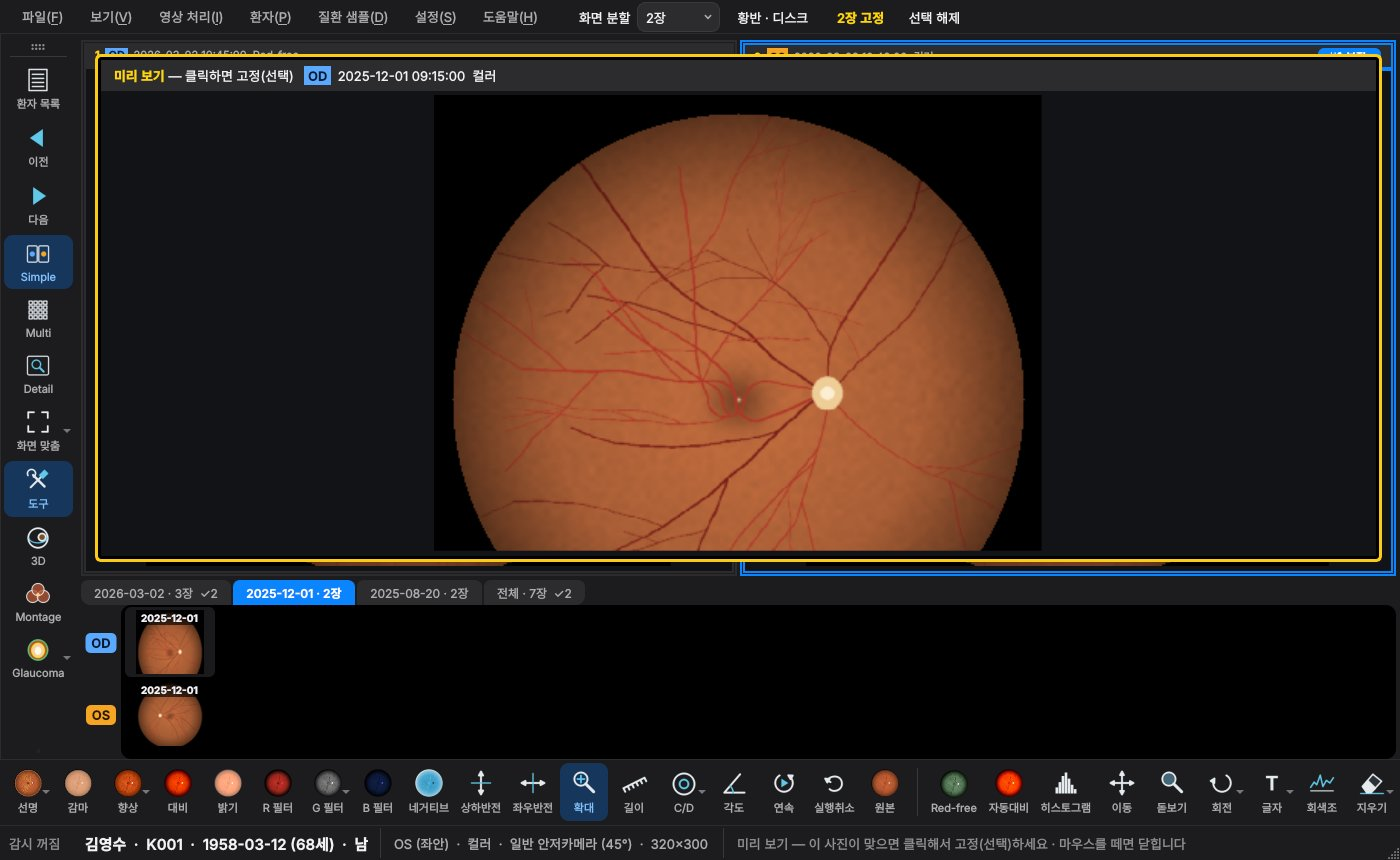
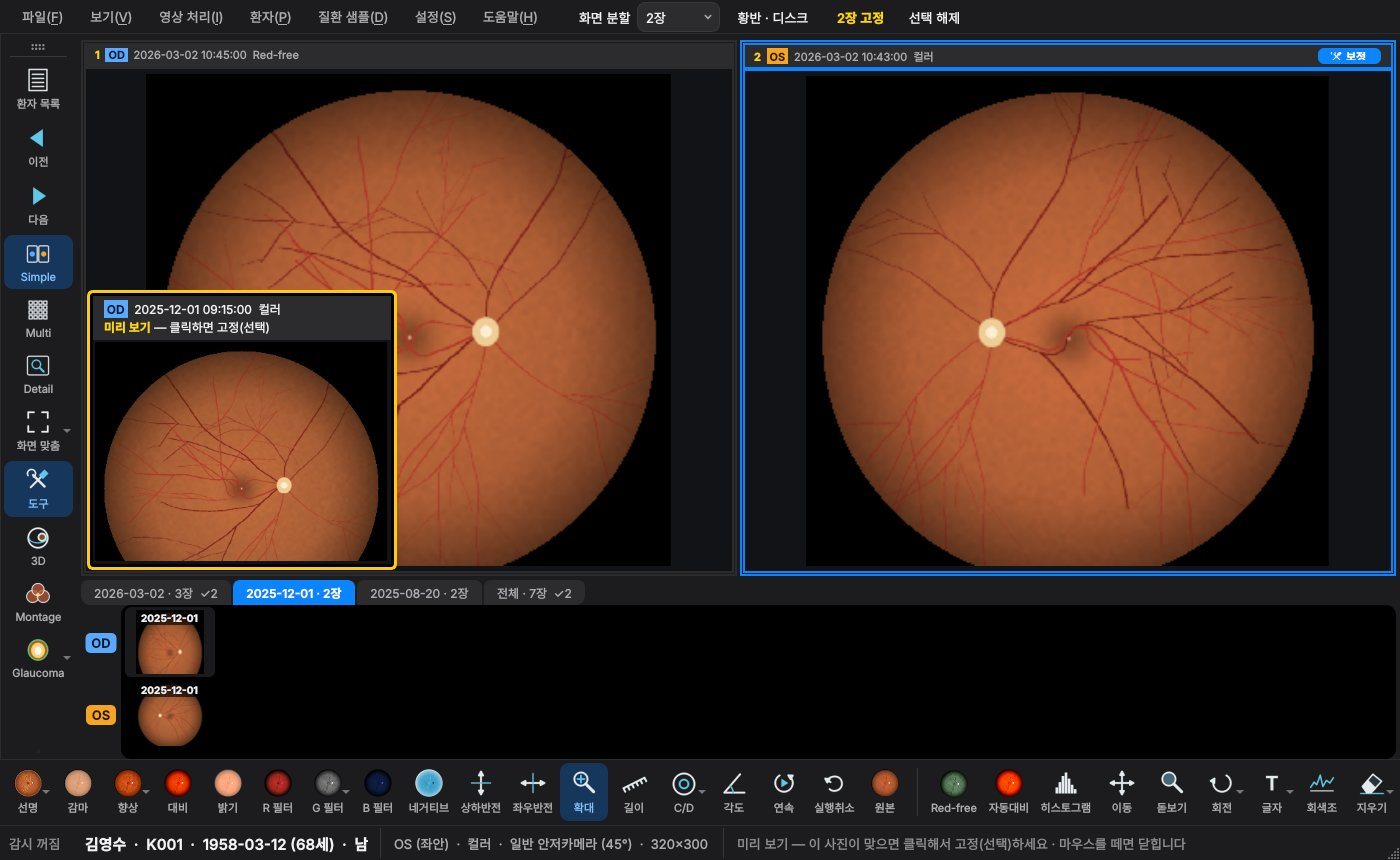
안저 뷰어 0.10.2: 미리 보기는 사진 바로 위에 작은 창으로 · 확대 전에는 왼쪽 버튼이 돋보기 (#88)
- 사진 목록의 사진에 마우스를 올리면 그 사진 바로 위에 작은 창(목록 사진의 다섯 배쯤)으로 — 메인 화면을 덮지 않음
- Simple · Multi 칸과 Detail의 큰 사진: 확대 전(사진 전체)에는 왼쪽 버튼을 누르는 동안 돋보기, 확대 뒤에는 이동

Claude-Session: https://claude.ai/code/session_01SGHFuffDfiwdMwsKrVFkMF

diff --git a/tests/test_bookmarks.py b/tests/test_bookmarks.py
@@ -3,8 +3,8 @@
 The photo list under the photos shows one exam's photos (OD row · OS row, as before); the bookmarks
 over it — one per exam date, newest at the left, then 전체 — pick the exam, and so does the wheel
 over the list. A patient opens on its newest exam, the newest OD | OS above. A photo of the list
-under the mouse is shown large over the views (미리 보기, v0.10.1: a pane of its own — the photos
-under it stay) until the mouse leaves it; a click pins it (numbered) — several pinned: that many
+under the mouse is shown larger in a small pane just above it (미리 보기, v0.10.2 — the photos of
+the views stay) until the mouse leaves it; a click pins it (numbered) — several pinned: that many
 side by side — and a click on a pinned one lets it go."""
 import os
 
@@ -173,8 +173,15 @@ def test_a_photo_under_the_mouse_is_previewed_and_a_click_pins_it(win):
     _hover(app, w, rf3)
     assert w._peek == rf3 and pane.isVisible() and pane.image_id == rf3 and pane.view.has_image()
     assert "미리 보기" in pane.label.text() and "클릭하면 고정" in pane.label.text() and "OD" in pane.label.text()
-    assert pane.parentWidget() is w.tabs and pane.width() > w.tabs.width() * 0.9      # nearly the whole room
-    assert pane.height() > w.tabs.height() * 0.9
+    # … a small pane just above that photo of the list: a good deal larger than it there, but only a
+    # corner of the views (not the main photos' whole room)
+    from fundusview.ui.main_window import THUMB_GRID
+
+    assert pane.parentWidget() is w.tabs and 3 * THUMB_GRID[0] < pane.width() <= 460
+    assert pane.width() < w.tabs.width() * 0.45 and pane.height() <= w.tabs.height() * 0.62
+    assert abs(pane.geometry().bottom() - w.tabs.height()) < 12            # at the bottom, by the list
+    thumb_x = w.thumbs.viewport().mapTo(w.tabs.parentWidget(), w.thumbs.visualItemRect(_item(w, rf3)).center()).x()
+    assert pane.geometry().left() >= 0 and pane.geometry().left() <= thumb_x - w.tabs.x() <= pane.geometry().right()
     assert _cells(w) == ([od3, os3], od3) and w.multi.count == 2
     assert w.picks() == [od3, os3] and not w._own_picks() and w.current["id"] == od3
     assert _item(w, rf3).data(PICK_ROLE) == 0 and _item(w, od3).data(PICK_ROLE) == SHOWN
@@ -212,7 +219,7 @@ def test_a_photo_under_the_mouse_is_previewed_and_a_click_pins_it(win):
     _hover(app, w, os2)
     w.resize(1300, 800)
     app.processEvents()
-    assert pane.isVisible() and pane.geometry().right() <= w.tabs.width() and pane.width() > w.tabs.width() * 0.9
+    assert pane.isVisible() and pane.geometry().right() <= w.tabs.width() and pane.geometry().bottom() <= w.tabs.height()
     _press(w, "view:multi")
     assert not pane.isVisible() and w._peek is None
     _press(w, "view:simple")
@@ -264,3 +271,33 @@ def test_settings_of_before_open_on_simple_once(tmp_path):
         finally:
             w.close()
     db.close()
+
+
+def test_the_left_button_on_a_photo_not_zoomed_yet_shows_the_loupe(win):
+    """Simple · Multi cells and Detail's big photo: with the whole photo on screen (before any zoom) the
+    left button held down shows the loupe under the mouse; once zoomed, a drag moves the photo as before."""
+    from PySide6.QtCore import QPoint, Qt
+    from PySide6.QtTest import QTest
+
+    app, w, db, refs, ids = win
+    _open(app, w, refs["kim"])
+    cell = next(c for c in w.multi.cells if c.image_id == ids["os3"])
+    view, vp = cell.view, cell.view.viewport()
+    at = QPoint(vp.width() // 2, vp.height() // 2)
+    assert view.click_loupe and view._fit and not view._loupe.isVisible()
+    QTest.mousePress(vp, Qt.MouseButton.LeftButton, pos=at)
+    assert view._loupe.isVisible() and w.current["id"] == ids["os3"]       # (the click selects the cell, too)
+    assert abs(view._loupe.geometry().center().x() - at.x()) <= 1
+    QTest.mouseMove(vp, at + QPoint(40, 10))                               # it follows the mouse
+    assert abs(view._loupe.geometry().center().x() - at.x() - 40) <= 1
+    QTest.mouseRelease(vp, Qt.MouseButton.LeftButton, pos=at + QPoint(40, 10))
+    assert not view._loupe.isVisible() and view._fit
+    # zoomed in: the left button moves the photo, no loupe
+    view.zoom_to(view._fit_zoom() * 3)
+    assert not view._fit
+    QTest.mousePress(vp, Qt.MouseButton.LeftButton, pos=at)
+    assert not view._loupe.isVisible() and view._drag["kind"] == "pan"
+    QTest.mouseRelease(vp, Qt.MouseButton.LeftButton, pos=at)
+    view.fit()
+    # Detail's big photo the same; other views (the 황반 · 디스크 panes …) as before
+    assert w.view2d.click_loupe and not cell.zooms["disc"].click_loupe

diff --git a/fundusview/ui/main_window.py b/fundusview/ui/main_window.py
@@ -5,8 +5,8 @@ Simple, its newest OD | OS (the first setting, v0.10.0), or on 16장 보기, its
 
 The photo list under the photos shows one exam's photos: the 날짜 책갈피 over it (one per exam
 date, the newest at the left and open first, then 전체) pick the exam, and so does the wheel over
-the list (``set_book``). A photo of the list under the mouse is shown large over the views (미리
-보기, peek.py — the photos under it stay as they are) and on Simple a click selects it, numbered —
+the list (``set_book``). A photo of the list under the mouse is shown larger just above it (미리
+보기, peek.py — a small pane; the photos of the views stay as they are) and on Simple a click selects it, numbered —
 as many photos above as are selected; with none the newest OD | OS of the bookmark's exam. The patient list
 is the only one: the command toolbar's [환자 목록], the menu bar's 환자 목록 (Ctrl+0) and 환자 검색
 (Ctrl+F) bring that window up; the patient is the same in both windows.
@@ -501,7 +501,7 @@ class MainWindow(QMainWindow):
         self.act_peek = m.addAction("사진 목록에 마우스를 올리면 미리 보기")
         self.act_peek.setCheckable(True)
         self.act_peek.setChecked(bool(self.settings.hover_preview))
-        self.act_peek.setToolTip("아래 사진 목록의 사진에 마우스를 올리면 그 사진만 화면 위에 크게 띄워 보여 줍니다 "
+        self.act_peek.setToolTip("아래 사진 목록의 사진에 마우스를 올리면 그 사진 바로 위에 좀 더 크게 보여 줍니다 "
                                  "(클릭하면 고정)")
         self.act_peek.toggled.connect(self._set_hover_preview)
         m.addAction(self.tb_cmd.toggleViewAction())
@@ -700,6 +700,7 @@ class MainWindow(QMainWindow):
         self.tabs.tabBar().hide()                # the views are switched with the icons above the photos
         self.view2d = ImageView()
         self.view2d.crossfade = True            # the next photo fades in over the last
+        self.view2d.click_loupe = True          # not zoomed yet: the left button held shows the loupe
         self.view2d.dblclick_leaves = True      # Detail: a double click goes back where one was (the
         self.view2d.activated.connect(self._leave_detail)   # loupe: the 돋보기 tool)
         self.view2d.toggle_captions(True)
@@ -2511,8 +2512,8 @@ class MainWindow(QMainWindow):
     PEEK_TABS = ("multi", "all")               # 미리 보기 on Simple · Multi and Detail (the views with the list)
 
     def _apply_peek(self) -> None:
-        """The photo the mouse rests on, large over the views (``PeekPane``) — the photos under it
-        stay as they are. Any photo of the list: one selected already is looked at the same way."""
+        """The photo the mouse rests on, larger, in a small pane just above it (``PeekPane``) — the
+        photos of the views stay as they are. Any photo of the list: one selected already is looked at the same way."""
         want = self._peek_want
         if self._tab() not in self.PEEK_TABS or not self.settings.hover_preview:
             want = None
@@ -2529,8 +2530,13 @@ class MainWindow(QMainWindow):
             what = "클릭하면 이 사진을 봅니다"
         else:
             what = "고정한 사진 — 클릭하면 빼기" if own else "클릭하면 고정(선택)"
-        self.peek_pane.show_photo(want, f"<b style='color:#ffd60a'>미리 보기</b> — {what}&nbsp;&nbsp; "
-                                        f"{self._multi_label(row, self._picks.index(want) + 1 if own else 0)}", rgb)
+        # … just above that photo of the list
+        item = next((self.thumbs.item(i) for i in range(self.thumbs.count())
+                     if self.thumbs.item(i).data(Qt.ItemDataRole.UserRole) == want), None)
+        x = (self.thumbs.viewport().mapTo(self.centralWidget(), self.thumbs.visualItemRect(item).center()).x()
+             - self.tabs.mapTo(self.centralWidget(), QPoint(0, 0)).x()) if item is not None else 0
+        self.peek_pane.show_photo(want, f"{self._multi_label(row, self._picks.index(want) + 1 if own else 0)}"
+                                        f"<br><b style='color:#ffd60a'>미리 보기</b> — {what}", rgb, x)
         self.lbl_status.setText("미리 보기 — 이 사진이 맞으면 클릭해서 고정(선택)하세요 · 마우스를 떼면 닫힙니다")
 
     def _end_peek(self) -> None:

diff --git a/fundusview/ui/peek.py b/fundusview/ui/peek.py
@@ -1,10 +1,10 @@
-"""미리 보기 — the photo of the photo list under the mouse, large over the photos.
+"""미리 보기 — the photo of the photo list under the mouse, a good deal larger, right over it.
 
-A pane that floats over the views while the mouse rests on a photo of the list: the photo as
-large as the room allows, its eye · date · kind in the line above it, and what a click does
-(선택 / 빼기). The photos underneath stay as they are — nothing is laid out again — and the pane
-lets the mouse through (it is only looked at). The main window shows and hides it
-(``MainWindow._apply_peek``).
+A small pane that comes up just above the photo of the list the mouse rests on (like a large
+tool tip): the photo some five times the size it has in the list (``SIDE``), its eye · date ·
+kind in the line above it, and what a click does (고정 / 빼기). It covers only a corner of the
+views — the photos there stay as they are, nothing is laid out again — and lets the mouse
+through (it is only looked at). The main window shows and hides it (``MainWindow._apply_peek``).
 """
 from __future__ import annotations
 
@@ -14,7 +14,8 @@ from PySide6.QtWidgets import QFrame, QLabel, QVBoxLayout, QWidget
 from . import theme
 from .image_view import ImageView
 
-MARGIN = 14                     # around the pane: the views under it show at its edges
+MARGIN = 6                      # between the pane and the edges of the views / the photo list
+SIDE = 440                      # the photo in the pane: this many pixels across (the list: 84)
 PEEK_COLOR = "#facc15"          # its frame (the colour of a picked photo in the list)
 
 
@@ -29,7 +30,7 @@ class PeekPane(QFrame):
         lay.setContentsMargins(3, 3, 3, 3)
         lay.setSpacing(0)
         self.label = QLabel()
-        self.label.setStyleSheet(f"background:{theme.CARD}; color:{theme.TEXT}; padding:6px 10px; font-size:13px")
+        self.label.setStyleSheet(f"background:{theme.CARD}; color:{theme.TEXT}; padding:4px 8px; font-size:12px")
         self.view = ImageView()
         self.view.set_navigator(False)
         self.view.setHorizontalScrollBarPolicy(Qt.ScrollBarPolicy.ScrollBarAlwaysOff)
@@ -38,16 +39,27 @@ class PeekPane(QFrame):
         lay.addWidget(self.label)
         lay.addWidget(self.view, 1)
         self.image_id: int | None = None
+        self.anchor_x = 0                       # the middle of the photo of the list, in the parent
+        self.aspect = 0.75                      # height / width of the photo shown
         self.hide()
 
     def place(self) -> None:
-        """Over the whole parent, a margin left around it."""
+        """At the bottom of the parent (just above the photo list), centred over ``anchor_x`` — the
+        photo of the list it shows — and kept inside the parent; at most half the parent's height."""
         r = self.parentWidget().rect()
-        self.setGeometry(QRect(r).adjusted(MARGIN, MARGIN, -MARGIN, -MARGIN))
+        head = self.label.sizeHint().height()
+        w = min(SIDE, r.width() - 2 * MARGIN)
+        h = min(int(w * self.aspect), max(120, r.height() // 2 - head))
+        w = min(w, int(h / self.aspect)) if self.aspect > 0 else w
+        w, h = max(w, 200) + 12, h + head + 12          # (the frame and its padding)
+        x = max(MARGIN, min(self.anchor_x - w // 2, r.width() - w - MARGIN))
+        self.setGeometry(QRect(x, r.height() - h - MARGIN, w, h))
 
-    def show_photo(self, image_id: int, label: str, rgb) -> None:
+    def show_photo(self, image_id: int, label: str, rgb, anchor_x: int = 0) -> None:
         self.image_id = image_id
         self.label.setText(label)
+        self.anchor_x = int(anchor_x)
+        self.aspect = rgb.shape[0] / max(1, rgb.shape[1])
         self.place()
         self.show()
         self.raise_()

diff --git a/fundusview/ui/image_view.py b/fundusview/ui/image_view.py
@@ -222,6 +222,7 @@ class ImageView(QGraphicsView):
         self._loupe.hide()
         self.loupe_mag, self.loupe_size = 3.0, 260
         self.dblclick_loupe = False      # 확대/축소 · 이동: a double click turns a loupe on that follows the mouse
+        self.click_loupe = False         # … the left button held on the whole photo (not zoomed): the loupe
         self.dblclick_leaves = False     # 확대/축소 · 이동: a double click is only reported (Detail: back where one was)
         self.step_keys = False           # ← / → ask for the photo before / after (``stepped``) instead of scrolling
         self._loupe_on = False
@@ -821,7 +822,12 @@ class ImageView(QGraphicsView):
         self.clicked.emit()
         sp = self.mapToScene(pos)
         t = self.tool
-        if t in ("pan", "zoom"):                      # 확대/축소 · 이동: a drag moves the photo (the wheel zooms)
+        if t in ("pan", "zoom") and self.click_loupe and self._fit:
+            # the whole photo on screen (not zoomed yet — nothing to move): held down, the loupe,
+            # following the mouse; the wheel meanwhile changes its power
+            self._drag = {"kind": "loupe"}
+            self._show_loupe(pos)
+        elif t in ("pan", "zoom"):                    # 확대/축소 · 이동: a drag moves the photo (the wheel zooms)
             self._drag = {"kind": "pan", "last": pos}
             self.viewport().setCursor(Qt.CursorShape.ClosedHandCursor)
         elif t == "loupe":

diff --git a/fundusview/ui/multi_view.py b/fundusview/ui/multi_view.py
@@ -48,6 +48,7 @@ class _Cell(QFrame):
         hl.addStretch(1)
         hl.addWidget(self.badge, 0, Qt.AlignmentFlag.AlignVCenter)
         self.view = ImageView()
+        self.view.click_loupe = True        # not zoomed yet: the left button held shows the loupe
         self.nav = EdgeNav(self.view)       # ◀ ▶ at its sides (Simple; nowhere to go until told)
         lay.addWidget(self.label)
         lay.addWidget(self.view, 3)

diff --git a/fundusview/__init__.py b/fundusview/__init__.py
@@ -5,6 +5,6 @@ Runs on Windows 10/11 and macOS 14+ (PySide6; the Mac app as built needs what it
 see ``macos_bundle.py``). See ``README.md``.
 """
 
-__version__ = "0.10.1"
+__version__ = "0.10.2"
 APP_NAME = "FundusViewer"
 APP_TITLE = "안저 사진 뷰어 (Fundus Viewer)"

diff --git a/README.md b/README.md
@@ -350,7 +350,7 @@ Windows에서는 창 제목 표시줄도 어둡게 맞춥니다.
 
 | 단추 | 보이는 것 | 사진 목록을 클릭하면 |
 |---|---|---|
-| (환자를 열면) **Simple** (Ctrl+1) | **최신 OD \| OS 두 장**을 크게 나란히 (OD 왼쪽 · OS 오른쪽) — 사진을 고정하면 고정한 사진들 | **고정**(번호) · 다시 클릭하면 **빼기** — 마우스만 올리면 크게 **미리 보기** |
+| (환자를 열면) **Simple** (Ctrl+1) | **최신 OD \| OS 두 장**을 크게 나란히 (OD 왼쪽 · OS 오른쪽) — 사진을 고정하면 고정한 사진들 | **고정**(번호) · 다시 클릭하면 **빼기** — 마우스만 올리면 그 위에 좀 더 크게 **미리 보기** |
 | **Multi** (Ctrl+2) | **16장 보기** — 이 환자의 사진 16장을 한 화면에 ([아래](#16장-보기--multi-vk-2-방식)); 고른 사진이 있으면 **고른 사진만**, 다시 누르면 16장 보기로 | **더하기**(번호) · 다시 클릭하면 **빼기** |
 | **Detail** (Ctrl+5) | 사진 한 장을 크게 + 황반 · 시신경 유두 확대 ([위](#detail-크게-보기)) | 그 사진을 봄 |
 | **3D** (Ctrl+3) | 보고 있는 사진을 [3D 안구](#3d-안구-모델)로 — 한 번 더 누르면 보던 화면으로 | 그 사진을 3D로 |
@@ -366,8 +366,8 @@ Simple이 함께 씁니다(16장 보기에서 번호가 붙은 사진 = Multi에
   방향), OD 칸이 선택됨, 사진 목록에는 노란 테두리(번호 없음 — 보여 주는 것일 뿐 고정한 것이 아님). 컬러 사진을 먼저 고르고,
   눈 · 촬영 종류 고르기는 그대로 따릅니다. 한쪽 눈 사진만 있으면 그 한 장이 크게 나옵니다. 책갈피를 넘기거나 환자 목록에서
   다른 검사를 고르면(고정한 사진이 없으면) 그 검사의 OD | OS로 바뀝니다.
-* 사진 목록의 사진에 **마우스를 올리면** 그 사진만 화면 위에 **크게 떠서 미리 보입니다**(노란 테두리, 제목에 "미리 보기") —
-  위의 사진 칸은 그대로 있고(0.10.1부터), 마우스를 떼면 닫힙니다. 이미 고정한 사진도 같은 식으로 크게 확인할 수 있고,
+* 사진 목록의 사진에 **마우스를 올리면** 그 사진 **바로 위에 작은 창으로 좀 더 크게** 미리 보입니다(목록 사진의 다섯 배쯤,
+  노란 테두리, "미리 보기") — 위의 메인 화면은 한쪽 구석만 가려지고 사진 칸은 그대로이며(0.10.2부터), 마우스를 떼면 닫힙니다. 이미 고정한 사진도 같은 식으로 크게 확인할 수 있고,
   Detail에서도 됩니다. (보기 → 사진 목록에 마우스를 올리면 미리 보기로 끌 수 있습니다.)
 * 맞는 사진이면 **클릭** — 노란 테두리와 번호(1, 2 …)가 붙고 그 사진이 위에 **고정됩니다**. 화면은 고정한
   장수에 맞게 저절로 나뉩니다 — 1장 · 2장(나란히) · 3~4장 4칸 · 5~6장 6칸 · 7~9장 9칸 · 16칸(최대 16장).
@@ -386,7 +386,8 @@ Simple이 함께 씁니다(16장 보기에서 번호가 붙은 사진 = Multi에
   **파란 [보정] 아이콘**이 붙습니다(사진이 2장 이상일 때). 다른 칸은 그대로이고,
   사진마다 실행 취소(Ctrl+Z) · 원본이 따로 있습니다.
   보정한 사진을 Detail로 열어도 같은 보정이 보입니다.
-* 칸마다 휠로 따로 확대·축소하고 드래그로 옮길 수 있습니다. Simple에 두 장일 때 **[3D]** 를 누르면 두 사진이 함께 3D로 나오고,
+* 칸마다 휠로 따로 확대·축소하고 드래그로 옮길 수 있습니다. **확대하기 전**(사진 전체가 보일 때)에는 **왼쪽 버튼을 누르고
+  있는 동안 그 자리에 돋보기**가 나옵니다(누른 채 휠: 돋보기 배율 · 0.10.2부터, Detail의 큰 사진도 같음). Simple에 두 장일 때 **[3D]** 를 누르면 두 사진이 함께 3D로 나오고,
   Multi에서 두 장 이상 · Simple에 세 장 이상이면 한 장 / 모두를 묻습니다([여러 장 3D](#두-장-3d--여러-장-3d)).
   **[Montage]** 는 고른 사진(같은 눈 2장 이상)으로 만듭니다.
 * 새 사진이 들어오면(새 영상 자동 표시) Simple은 최신 OD | OS가 다시 나옵니다 — 사진을 손으로 바꾸지 않았을 때. 바꿨으면
@@ -416,7 +417,7 @@ Simple이 함께 씁니다(16장 보기에서 번호가 붙은 사진 = Multi에
 * 고정한 사진은 노란 테두리와 번호, Simple의 처음 두 장(최신 OD | OS)은 노란 테두리만, 두 번째 사진은 ② 입니다. 지금 보고 있는 사진에 따로
   파란 표시는 하지 않습니다(0.9.1부터 — 고른 표시와 헷갈려서).
 
-| 날짜 책갈피 · 2장 고정 — 목록의 사진에 마우스를 올려 크게 미리 보기 |
+| 날짜 책갈피 · 2장 고정 — 목록의 사진에 마우스를 올리면 그 위에 좀 더 크게 미리 보기 |
 |---|
 | ![날짜 책갈피](docs/bookmarks.jpg) |
 

diff --git a/docs/release_notes.md b/docs/release_notes.md
@@ -29,6 +29,16 @@ Mac용은 **Apple Silicon**(M1 · M2 · M3 · M4 …)용만 있습니다 — Int
 4. Mac에서는 Ctrl 대신 ⌘ 키를 씁니다(⌘+클릭 = 두 번째 사진, ⌘1 · ⌘2 · ⌘3 = 보기). 트랙패드의 두 손가락
    벌리기 / 오므리기로 사진과 3D 안구를 확대 · 축소합니다. 메뉴는 화면 맨 위 메뉴 막대에 있습니다.
 
+### 버전 0.10.2 — 미리 보기는 사진 바로 위에 작은 창으로 · 확대 전에는 왼쪽 버튼이 돋보기
+* **마우스를 올리면 그 사진 바로 위에 좀 더 크게**: 아래 사진 목록의 사진에 마우스를 올리면, 그 사진 **바로 위에 작은 창**
+  (목록 사진의 다섯 배쯤, 노란 테두리)으로 뜹니다. 0.10.1에서는 위의 메인 화면 전체를 덮을 만큼 크게 떠서 보던 사진을 가렸습니다.
+  이제 메인 화면의 한쪽 구석만 가리고, 위의 사진들은 그대로 보입니다. 마우스를 떼면 닫힙니다.
+* 창 위쪽에 눈 · 날짜 · 종류와 "클릭하면 고정(선택)"이 나오고, 맞는 사진이면 그대로 클릭 — 고정(번호)되는 것은 전과 같습니다.
+* **확대 전에는 왼쪽 버튼이 돋보기**: Simple · Multi의 칸과 Detail의 큰 사진에서, 사진 전체가 보이는 상태(휠로 확대하기 전)에
+  **마우스 왼쪽 버튼을 누르고 있으면 그 자리에 돋보기**가 나옵니다. 누른 채 움직이면 따라오고, 누른 채 휠을 굴리면 돋보기
+  배율이 바뀌며, 떼면 사라집니다. 휠로 확대한 뒤에는 전처럼 왼쪽 드래그가 사진 이동입니다(`0` 키 · 화면 맞춤으로 전체 사진으로
+  돌아오면 다시 돋보기). 칸을 눌러 고르는 것, 더블클릭으로 Detail을 여는 것은 그대로입니다.
+
 ### 버전 0.10.1 — 미리 보기는 크게 띄워서 · 위의 사진 배치는 그대로
 * **마우스를 올리면 그 사진만 크게**: 아래 사진 목록의 사진에 마우스를 올리면 그 사진이 화면 위에 **크게 떠서** 나옵니다
   (노란 테두리, 제목에 **미리 보기** · 눈 · 날짜 · 종류). 0.10.0에서는 미리 볼 때마다 위의 사진 칸이 바뀌어(한 장만 남거나
